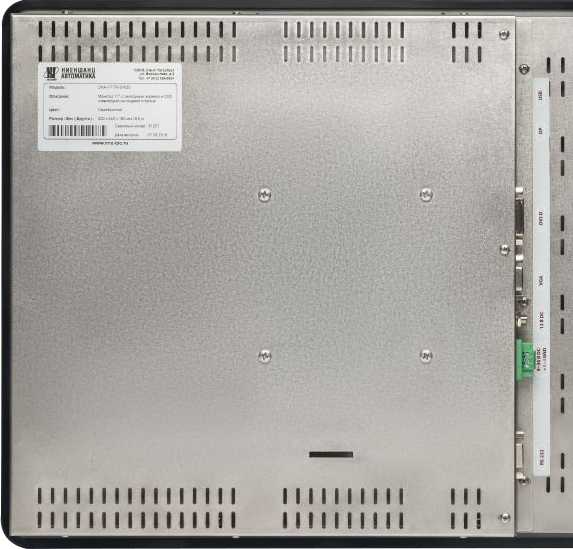
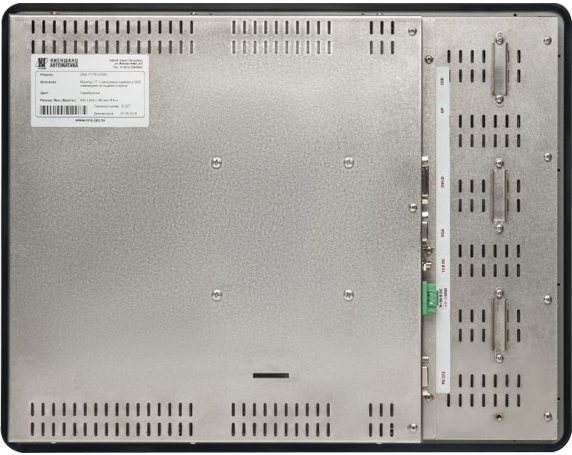
Блок "кастомизация управления"
* Изменены картинки и позиционирование панели управления

diff --git a/components/technical_features/TechnicalFeatureControls.vue b/components/technical_features/TechnicalFeatureControls.vue
@@ -22,7 +22,7 @@
 					srcset="/img/technical-features/front_mobile.png"
 				/>
 				<img
-					src="/img/technical-features/front.jpg"
+					src="/img/technical-features/front_large_desktop.png"
 					alt
 					:class="[
 						'image__item',
@@ -46,7 +46,7 @@
 					srcset="/img/technical-features/controlls_mobile.png"
 				/>
 				<img
-					src="/img/technical-features/controlls.png"
+					src="/img/technical-features/controlls_large_desktop.png"
 					:class="['controlls_image', isTransitionend ? 'move' : '']"
 					alt
 				/>
@@ -66,7 +66,7 @@
 					srcset="/img/technical-features/back_mobile.png"
 				/>
 				<img
-					src="/img/technical-features/back.jpg"
+					src="/img/technical-features/back_large_desktop.png"
 					alt
 					:class="[
 						'image__item',
@@ -119,16 +119,16 @@ export default {
 
 	& .controlls_image {
 		position: absolute;
-		bottom: calc(50% - (549px / 2) + 13px);
-		right: 89px;
+		bottom: calc(50% - (455px / 2) + 14px);
+		right: 240px;
 		z-index: 105;
 		box-shadow: 0px 0px 19px rgba(255, 255, 255, 0.8);
 		transition: all 1s ease-out;
 		transition-delay: 3s;
 
 		&.move {
-			bottom: calc(50% - (549px / 2) + 75px);
-			right: 308px;
+			bottom: calc(50% - (455px / 2) + 65px);
+			right: 400px;
 		}
 	}
 
@@ -138,8 +138,8 @@ export default {
 
 		&.front,
 		&.back {
-			top: calc(50% - (549px / 2));
-			right: 0;
+			top: calc(50% - (455px / 2));
+			right: calc(50% - (572px / 2));
 			opacity: 0;
 		}
 
@@ -183,19 +183,19 @@ export default {
 @media (1200px < width < 1600px) {
 	.images {
 		& .controlls_image {
-			bottom: calc(50% - (400px / 2) + 10px);
-			right: 69px;
+			bottom: calc(50% - (283px / 2) + 8px);
+			right: calc(50% - (358px / 2) + 130px);
 
 			&.move {
-				bottom: calc(50% - (400px / 2) + 50px);
-				right: 224px;
+				bottom: calc(50% - (283px / 2) + 40px);
+				right: calc(50% - (358px / 2) + 230px);
 			}
 		}
 		& .image__item {
 			&.front,
 			&.back {
-				top: calc(50% - (400px / 2));
-				right: 0;
+				top: calc(50% - (283px / 2));
+				right: calc(50% - (358px / 2));
 			}
 		}
 	}
@@ -205,20 +205,20 @@ export default {
 @media (320px <= width < 1024px), (1024px <= width <= 1200px) {
 	.images {
 		& .controlls_image {
-			bottom: calc(50% - (400px / 2) + 46px);
-			right: 49px;
+			bottom: calc(50% - (235px / 2) + 7px);
+			right: calc(50% - (296px / 2) + 110px);
 
 			&.move {
-				bottom: calc(50% - (400px / 2) + 80px);
-				right: 160px;
+				bottom: calc(50% - (235px / 2) + 30px);
+				right: calc(50% - (296px / 2) + 190px);
 			}
 		}
 
 		& .image__item {
 			&.front,
 			&.back {
-				top: calc(50% - (320px / 2));
-				right: -20px;
+				top: calc(50% - (235px / 2));
+				right: calc(50% - (296px / 2));
 			}
 		}
 	}
